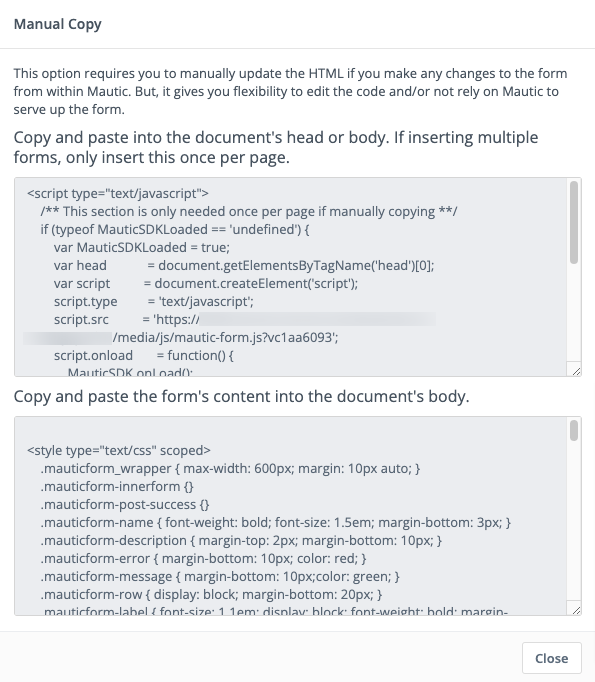
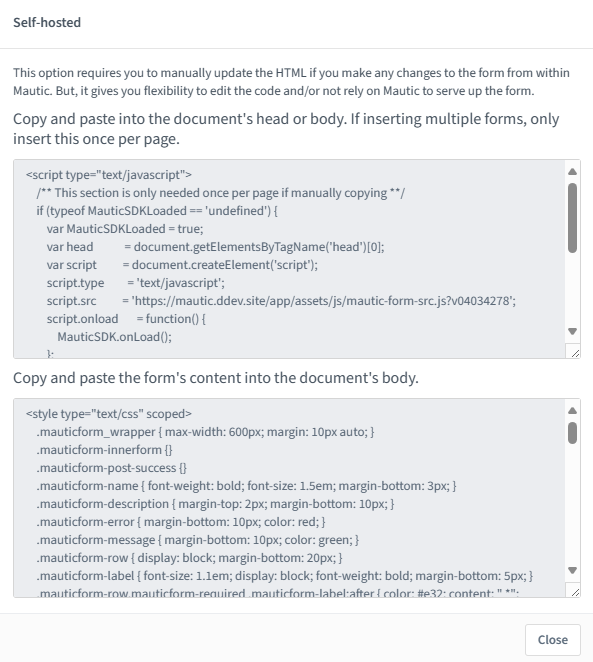
Self-hosted

diff --git a/docs/components/forms.rst b/docs/components/forms.rst
@@ -242,7 +242,7 @@ Attributes
   :width: 600
   :alt: Screenshot showing the attributes for a checkbox group
 
-- **Field HTML name**: this is the machine name of the field, populated automatically from the label. You can customise this field if the label is long. You reference this field is when connecting Mautic Forms to other Forms, or when using the Manual Copy function to manually add the Form to your website or app.
+- **Field HTML name**: this is the machine name of the field, populated automatically from the label. You can customise this field if the label is long. You reference this field is when connecting Mautic Forms to other Forms, or when using the Self-hosted function to manually add the Form to your website or app.
 - **Label attributes**: this field changes the way the label text appears. You should use the format ``style="attribute: descriptor"`` to change the style. For example, to change the label to red, use ``style="color: red"`` or ``style="color: #ff0000"``.
 - **Input attributes**: changes the way any text inside the Form Field appears. This applies to the input placeholder text, text entered by the visitor submitting the Form, and the options for the select fields when Allow Multiple is Yes - including List - Country.
 - **Field container attributes**: this changes the Form Field. Use this to change the size of the box, fill color, rounded edges, or any other properties of the actual field.
@@ -415,14 +415,14 @@ Via IFrame
 
 IFrames can be more difficult to use, and blocking by browsers is more likely, however there are sometimes where using an IFrame is preferable. Be sure to adjust the width and height for the space required to fit the Form. The visitor may need to scroll within the IFrame depending on the resolution of their browser. It's possible to display an error message in the event that the visitor's browser doesn't support IFrames, by editing the text between the ``<p>`` and ``</p>`` tags before copying the code and pasting it into your website.
 
-Manual copy
+Self-hosted
 ===========
 
 .. image:: images/forms/embed_form_manual.png
   :width: 600
   :alt: Screenshot showing the options for manually embedding a Mautic Form.
 
-The manual copy option does provide more flexibility to extend Forms with JavaScript snippets and custom styling, however it's a manual process and any changes made within Mautic after copying the code won't be automatically reflected on your website unless you re-copy and paste the new HTML code.
+The Self-hosted option does provide more flexibility to extend Forms with JavaScript snippets and custom styling, however it's a manual process and any changes made within Mautic after copying the code won't be automatically reflected on your website unless you re-copy and paste the new HTML code.
 
 .. note::
   Before copying the code to embed your Mautic Forms, ensure that you are on the correct domain name - not a staging area or internal reference for example - as the Form embed code references the URL.
